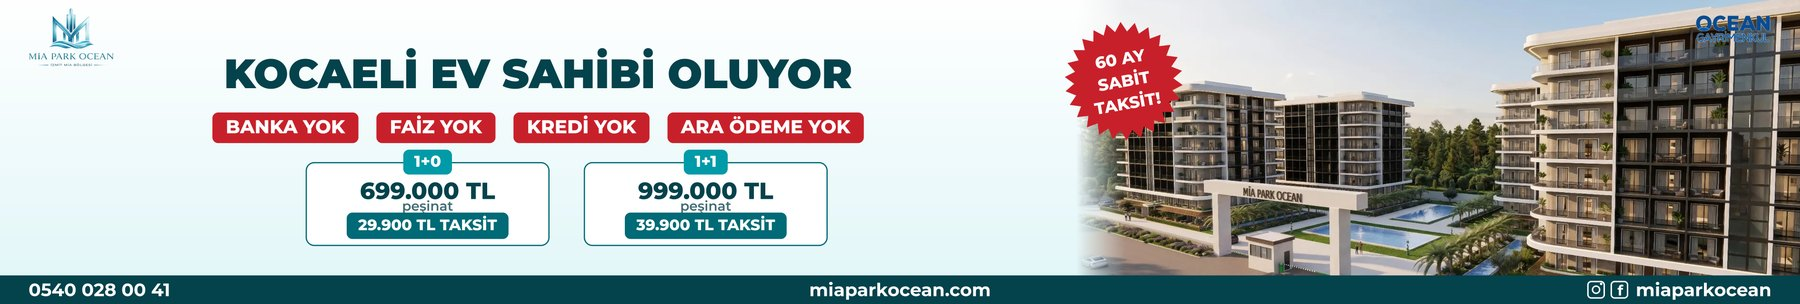
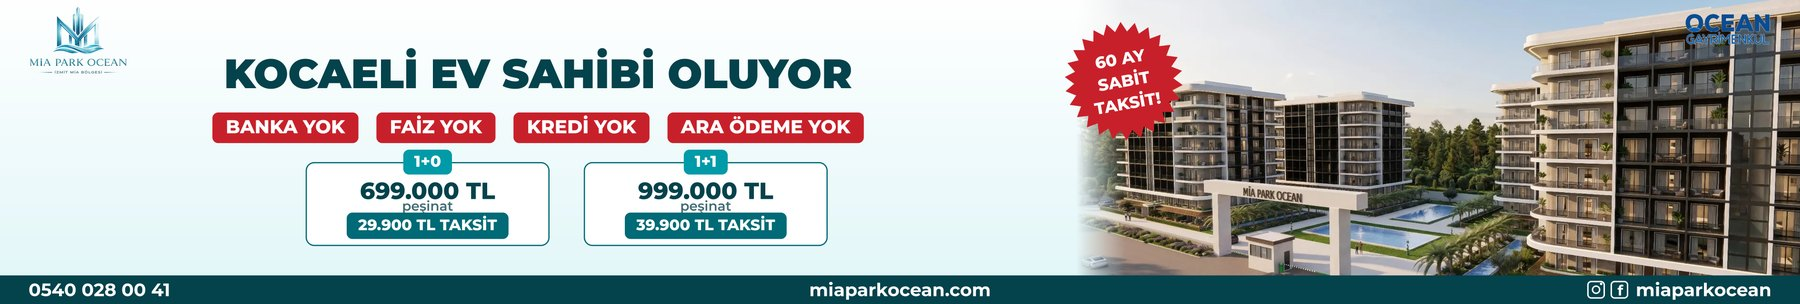
Turkuaz seri: yeni kurumsal MİA logosu (PDF'ten şeffaf PNG) + büyük logolar
- Müşterinin ilettiği PDF'teki renkli MİA PARK OCEAN logosu zeminden
  arındırılıp public/brand/logo-mia-2026.png olarak üretildi
- Turkuaz seride MİA 1040 px, Ocean 980 px genişliğe büyütüldü;
  plakasız şeffaf PNG, koyu zeminlerde biçim izleyen parlama
- t04 sol hizalı manşetler büyüyen logoyla çakışmasın diye indirildi

Claude-Session: https://claude.ai/code/session_014vbWeo5uAXPs6zFw9SmWv2

Changed region(s): [[0.0, 0.0296, 0.0933, 0.2664], [0.9333, 0.0296, 0.9956, 0.148]]

diff --git a/scripts/build-bilbord-16m-turkuaz.py b/scripts/build-bilbord-16m-turkuaz.py
@@ -103,20 +103,20 @@ def logo_glow(im, logo, x, y, blur=45, kat=6):
 
 
 def logolar(im, gece=False):
-    """İkisi de KENDİ renklerinde, plakasız şeffaf PNG: MİA solda,
-    OCEAN sağda; koyu zeminde biçimi izleyen beyaz parlama."""
+    """İkisi de KENDİ renklerinde, plakasız şeffaf PNG: MİA (2026 kurumsal
+    çizim) solda, OCEAN sağda; koyu zeminde biçimi izleyen beyaz parlama."""
     lg = Image.open(os.path.join(ROOT, "public", "brand",
-                                 "logo-ocean-trim.png")).convert("RGBA")
-    lg = lg.resize((900, int(lg.height * 900 / lg.width)), Image.LANCZOS)
+                                 "logo-mia-2026.png")).convert("RGBA")
+    lg = lg.resize((1040, int(lg.height * 1040 / lg.width)), Image.LANCZOS)
     if gece:
-        logo_glow(im, lg, PAD, 80)
-    im.alpha_composite(lg, (PAD, 80))
+        logo_glow(im, lg, PAD, 60)
+    im.alpha_composite(lg, (PAD, 60))
     og = Image.open(os.path.join(ROOT, "sunum", "kaynak", "sekil",
                                  "ocean-logo-renkli2.png")).convert("RGBA")
-    og = og.resize((860, int(og.height * 860 / og.width)), Image.LANCZOS)
+    og = og.resize((980, int(og.height * 980 / og.width)), Image.LANCZOS)
     if gece:
-        logo_glow(im, og, W - PAD - 860, 130)
-    im.alpha_composite(og, (W - PAD - 860, 130))
+        logo_glow(im, og, W - PAD - 980, 110)
+    im.alpha_composite(og, (W - PAD - 980, 110))
 
 
 def alt_bar(im):
@@ -271,9 +271,9 @@ def t04():
     logolar(im)
     dr = ImageDraw.Draw(im)
     cx = x0 / 2
-    dr.text((PAD + 100, 880), "İZMİT MİA BÖLGESİ'NDE",
+    dr.text((PAD + 100, 940), "İZMİT MİA BÖLGESİ'NDE",
             font=mont("Black", 330), fill=TURKUAZ_K, anchor="lm")
-    dr.text((PAD + 100, 1260), "EV SAHİBİ OLUYORSUNUZ",
+    dr.text((PAD + 100, 1310), "EV SAHİBİ OLUYORSUNUZ",
             font=mont("Black", 330), fill=PETROL, anchor="lm")
     kartlar(dr, cx + 300, 1680)
     yok_satiri(dr, cx, 2680, 180)
